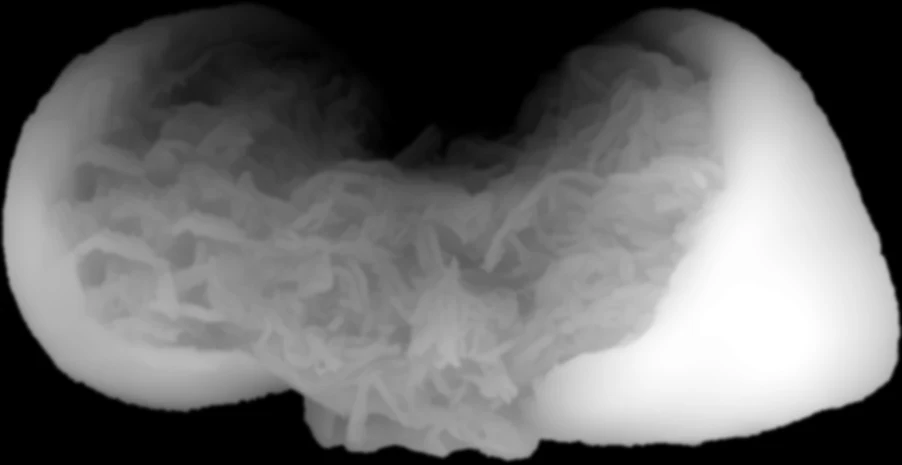
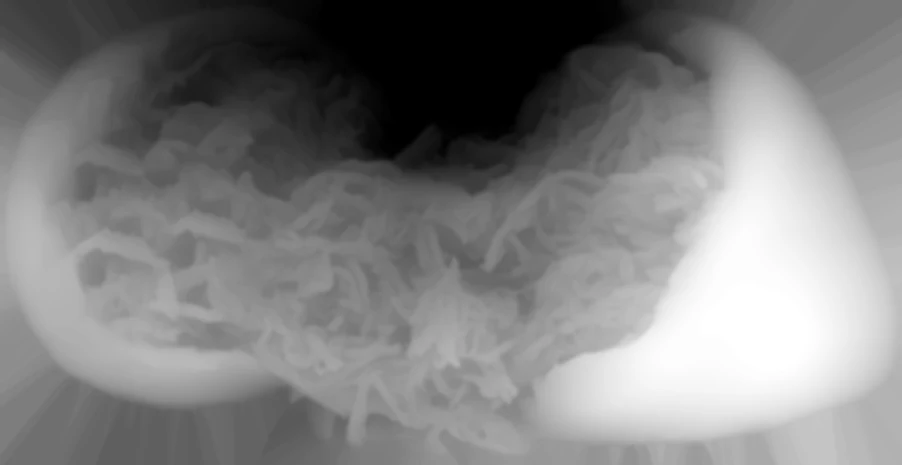
LanLan: órbita junto com os ingredientes, Desde 1994 discreto, fartura de recheio
Claude-Session: https://claude.ai/code/session_01MWda4BR2FMVPu4wWSLTDwJ

Changed region(s): [[0.0, 0.0, 1.0, 1.0]]

diff --git a/lanlan/index.html b/lanlan/index.html
@@ -5,7 +5,7 @@
 <meta name="viewport" content="width=device-width, initial-scale=1.0, viewport-fit=cover">
 <title>LanLan Coxinhas</title>
 <meta name="claude:viewport-fit-sides" content="cover">
-<meta name="description" content="LanLan – Muito mais que uma coxinha. Coxinha de verdade, recheio de sobra e sabor de Nordeste. Desde 1994 em Fortaleza.">
+<meta name="description" content="LanLan – Muito mais que uma coxinha. Coxinha de verdade, fartura de recheio e sabor de Nordeste. Desde 1994 em Fortaleza.">
 <link rel="preconnect" href="https://fonts.googleapis.com">
 <link rel="stylesheet" href="https://fonts.googleapis.com/css2?family=Montserrat:wght@300;400;500;600;700;800&display=swap">
 <style>
@@ -39,6 +39,8 @@ img{display:block;max-width:100%}
 .btn svg{width:20px;height:20px}
 .selo{display:inline-flex;align-items:center;gap:12px;font-weight:600;font-size:.74rem;letter-spacing:.22em;text-transform:uppercase;color:var(--laranja)}
 .selo::before{content:"";width:34px;height:1px;background:currentColor}
+.selo.discreto{color:var(--t2);font-weight:500;font-size:.7rem;letter-spacing:.28em}
+.selo.discreto::before{width:22px;background:var(--laranja)}
 
 /* ===== Topo ===== */
 body::before{content:"";position:fixed;inset:0 0 auto;height:env(safe-area-inset-top,0px);z-index:60;background:var(--fundo)}
@@ -244,9 +246,9 @@ body.menu-aberto{overflow:hidden}
   <section class="abertura" id="abertura">
     <div class="ab-cena" id="abCena">
       <div class="ab-texto" id="abTexto">
-        <span class="selo">Fortaleza, desde 1994</span>
+        <span class="selo discreto">Desde 1994</span>
         <h1><span>Muito mais</span><span>que uma</span><span class="b">coxinha.</span></h1>
-        <p>Coxinha de verdade, recheio de sobra e sabor de Nordeste.</p>
+        <p>Coxinha de verdade, fartura de recheio e sabor de Nordeste.</p>
         <div><a class="btn js-pedido" href="https://lanlanoficial.com.br/delivery" target="_blank" rel="noopener"><svg aria-hidden="true"><use href="#sacola"/></svg>Fazer pedido</a></div>
       </div>
       <div class="ab-quadro" id="abQuadro" aria-hidden="true"></div>
@@ -294,7 +296,7 @@ body.menu-aberto{overflow:hidden}
     <div class="in">
       <span class="selo">Muito mais que uma coxinha</span>
       <div class="fr"><h2 class="t">É crocante <b>por fora.</b></h2><p>Casquinha de panko que estala na primeira mordida.</p></div>
-      <div class="fr"><h2 class="t">Tem fartura <b>por dentro.</b></h2><p>Frango desfiado de sobra, na massa de batata com chia.</p></div>
+      <div class="fr"><h2 class="t">Tem fartura <b>por dentro.</b></h2><p>Muito frango desfiado, na massa de batata com chia.</p></div>
       <div class="fr"><h2 class="t">É nordestino <b>no recheio.</b></h2><p>Empanadas nordestinas assadas no forno, com massa folhada e recheio suculento.</p></div>
     </div>
   </section>
@@ -509,7 +511,7 @@ const progresso = sec => { const r = sec.getBoundingClientRect(), total = sec.of
       if (k === PRODS.length - 1 && q > .93){ op = 1; ty = 0; }
       const W = prod.offsetWidth, H = prod.offsetHeight;
       const ox = (.5 + (fx - .5) * MARG) * W, oy = (.5 + (fy - .5) * MARG) * H;
-      const tq = Math.min(1, Math.max(0, (q - .72) / .25)); yawAtual = reduz ? 0 : 28 * Math.sin(tq * Math.PI * 2);
+      const tq = Math.min(1, Math.max(0, (q - .10) / .64)); yawAtual = reduz ? 0 : 24 * Math.sin(tq * Math.PI * 2); /* a órbita acontece junto com os ingredientes: gira enquanto o zoom passa de um para o outro */
       const desloc = -innerHeight * (cel ? .24 : .2) * alto;
       prod.style.transformOrigin = `${ox}px ${oy}px`;
       prod.style.transform = `translate(${-ox}px, ${-oy + desloc}px) translateY(${ty}%) scale(${esc.toFixed(4)})`;

diff --git a/lanlan/site.html b/lanlan/site.html
@@ -1,6 +1,6 @@
 <title>LanLan Coxinhas</title>
 <meta name="claude:viewport-fit-sides" content="cover">
-<meta name="description" content="LanLan – Muito mais que uma coxinha. Coxinha de verdade, recheio de sobra e sabor de Nordeste. Desde 1994 em Fortaleza.">
+<meta name="description" content="LanLan – Muito mais que uma coxinha. Coxinha de verdade, fartura de recheio e sabor de Nordeste. Desde 1994 em Fortaleza.">
 <link rel="preconnect" href="https://fonts.googleapis.com">
 <link rel="stylesheet" href="https://fonts.googleapis.com/css2?family=Montserrat:wght@300;400;500;600;700;800&display=swap">
 <style>
@@ -34,6 +34,8 @@ img{display:block;max-width:100%}
 .btn svg{width:20px;height:20px}
 .selo{display:inline-flex;align-items:center;gap:12px;font-weight:600;font-size:.74rem;letter-spacing:.22em;text-transform:uppercase;color:var(--laranja)}
 .selo::before{content:"";width:34px;height:1px;background:currentColor}
+.selo.discreto{color:var(--t2);font-weight:500;font-size:.7rem;letter-spacing:.28em}
+.selo.discreto::before{width:22px;background:var(--laranja)}
 
 /* ===== Topo ===== */
 body::before{content:"";position:fixed;inset:0 0 auto;height:env(safe-area-inset-top,0px);z-index:60;background:var(--fundo)}
@@ -237,9 +239,9 @@ body.menu-aberto{overflow:hidden}
   <section class="abertura" id="abertura">
     <div class="ab-cena" id="abCena">
       <div class="ab-texto" id="abTexto">
-        <span class="selo">Fortaleza, desde 1994</span>
+        <span class="selo discreto">Desde 1994</span>
         <h1><span>Muito mais</span><span>que uma</span><span class="b">coxinha.</span></h1>
-        <p>Coxinha de verdade, recheio de sobra e sabor de Nordeste.</p>
+        <p>Coxinha de verdade, fartura de recheio e sabor de Nordeste.</p>
         <div><a class="btn js-pedido" href="https://lanlanoficial.com.br/delivery" target="_blank" rel="noopener"><svg aria-hidden="true"><use href="#sacola"/></svg>Fazer pedido</a></div>
       </div>
       <div class="ab-quadro" id="abQuadro" aria-hidden="true"></div>
@@ -287,7 +289,7 @@ body.menu-aberto{overflow:hidden}
     <div class="in">
       <span class="selo">Muito mais que uma coxinha</span>
       <div class="fr"><h2 class="t">É crocante <b>por fora.</b></h2><p>Casquinha de panko que estala na primeira mordida.</p></div>
-      <div class="fr"><h2 class="t">Tem fartura <b>por dentro.</b></h2><p>Frango desfiado de sobra, na massa de batata com chia.</p></div>
+      <div class="fr"><h2 class="t">Tem fartura <b>por dentro.</b></h2><p>Muito frango desfiado, na massa de batata com chia.</p></div>
       <div class="fr"><h2 class="t">É nordestino <b>no recheio.</b></h2><p>Empanadas nordestinas assadas no forno, com massa folhada e recheio suculento.</p></div>
     </div>
   </section>
@@ -502,7 +504,7 @@ const progresso = sec => { const r = sec.getBoundingClientRect(), total = sec.of
       if (k === PRODS.length - 1 && q > .93){ op = 1; ty = 0; }
       const W = prod.offsetWidth, H = prod.offsetHeight;
       const ox = (.5 + (fx - .5) * MARG) * W, oy = (.5 + (fy - .5) * MARG) * H;
-      const tq = Math.min(1, Math.max(0, (q - .72) / .25)); yawAtual = reduz ? 0 : 28 * Math.sin(tq * Math.PI * 2);
+      const tq = Math.min(1, Math.max(0, (q - .10) / .64)); yawAtual = reduz ? 0 : 24 * Math.sin(tq * Math.PI * 2); /* a órbita acontece junto com os ingredientes: gira enquanto o zoom passa de um para o outro */
       const desloc = -innerHeight * (cel ? .24 : .2) * alto;
       prod.style.transformOrigin = `${ox}px ${oy}px`;
       prod.style.transform = `translate(${-ox}px, ${-oy + desloc}px) translateY(${ty}%) scale(${esc.toFixed(4)})`;
